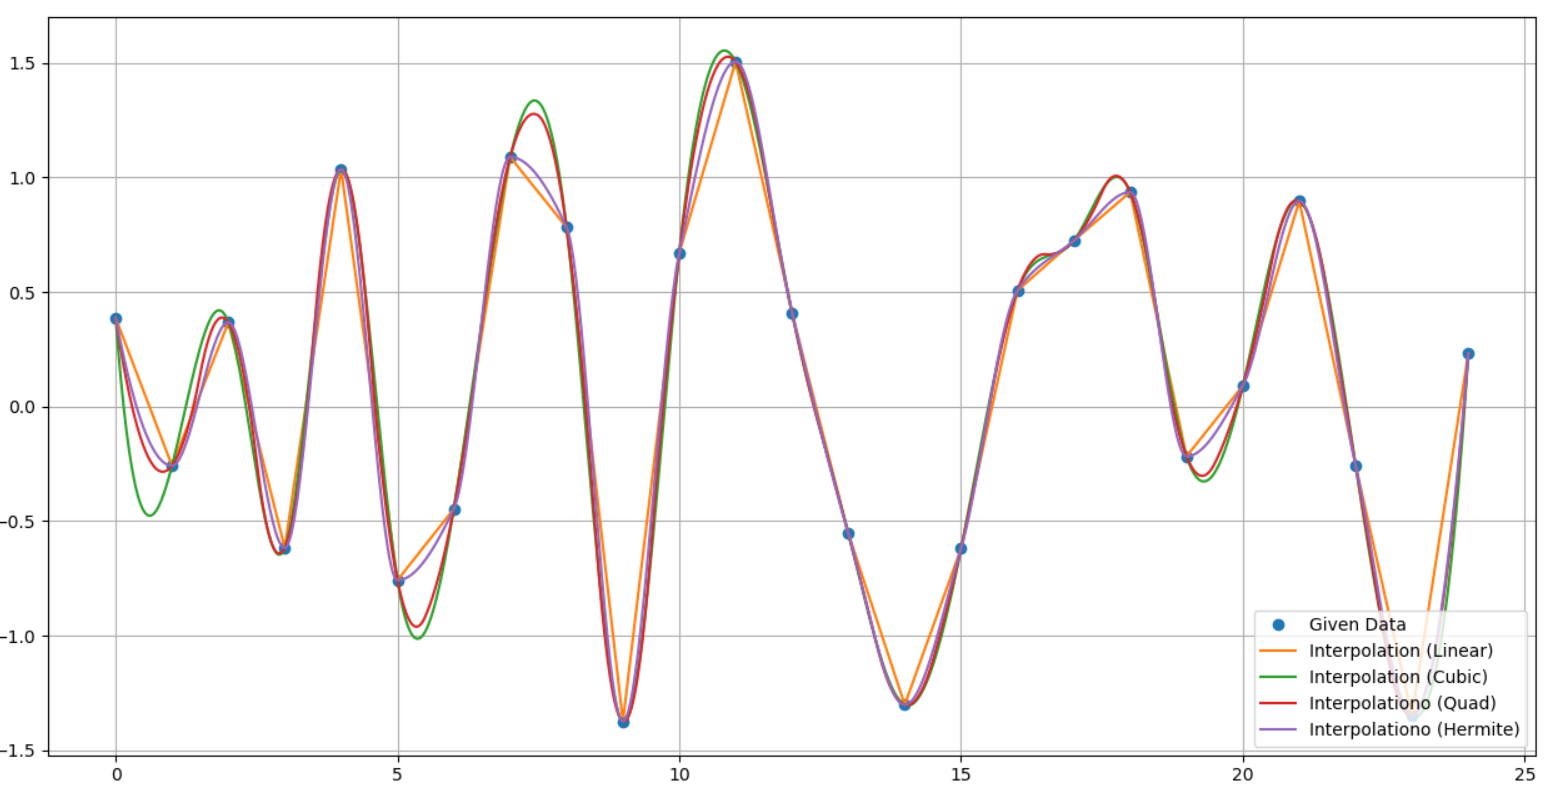
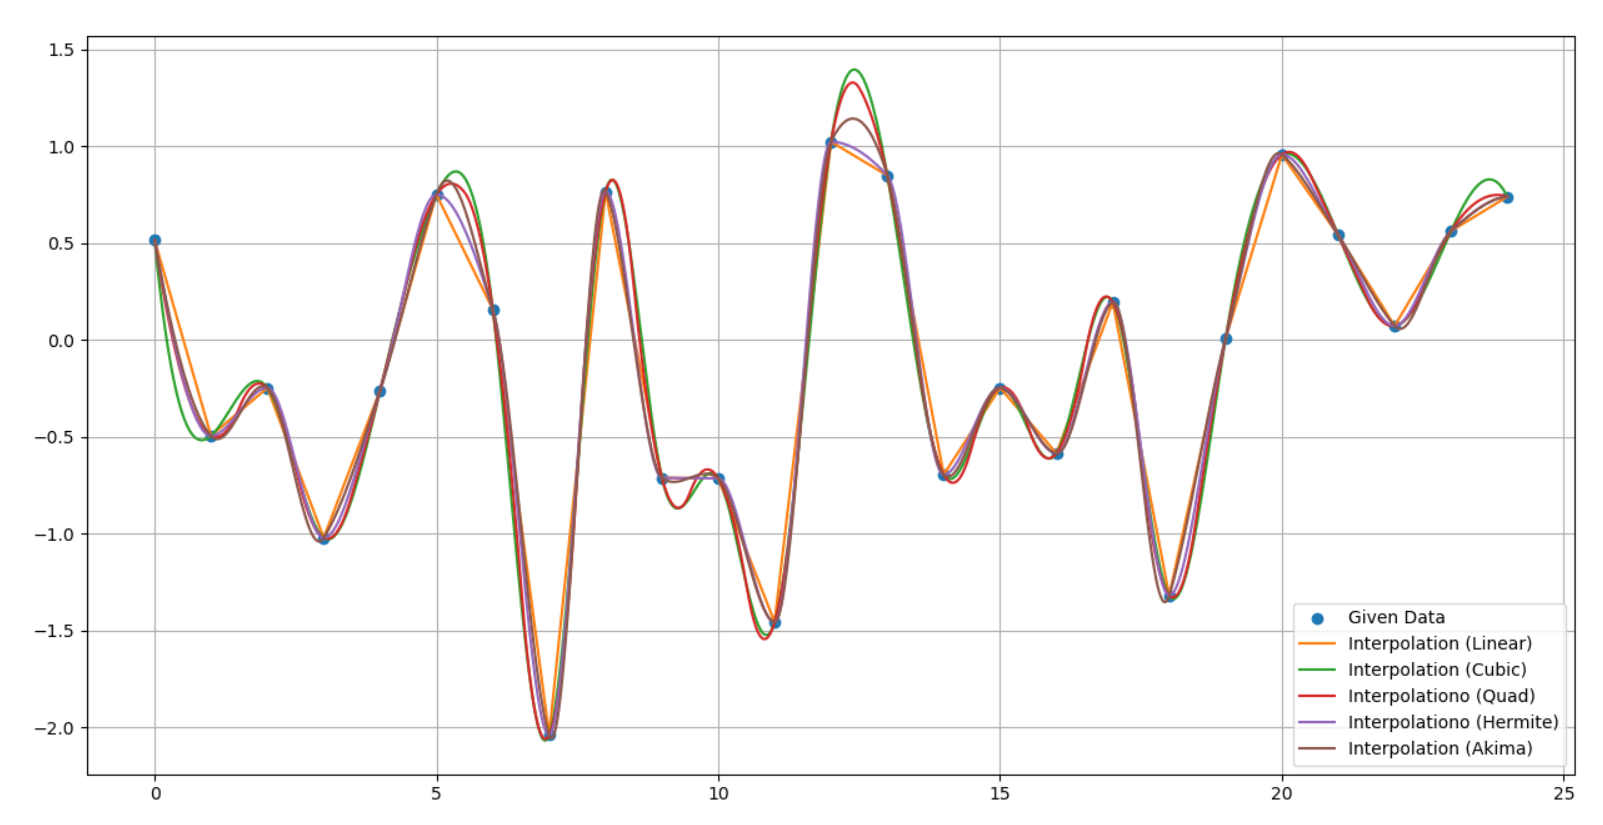
updates

diff --git a/sequntial_data_generation_sim.py b/sequntial_data_generation_sim.py
@@ -46,7 +46,7 @@ x = [i for i in range(samples.size)]
 fit_linear = interp1d(x, samples, kind="linear")
 fit_cubic = interp1d(x, samples, kind='cubic')
 fit_quad = interp1d(x, samples, kind='quadratic')
-fit_lagrange = interpolate.lagrange(x, samples)
+fit_akima = interpolate.Akima1DInterpolator(x, samples)
 
 x_test = np.linspace(0,samples.size-1,1000)
 
@@ -58,8 +58,9 @@ plt.plot(x_test, fit_linear(x_test))
 plt.plot(x_test, fit_cubic(x_test))
 plt.plot(x_test, fit_quad(x_test))
 plt.plot(x_test, y_test)
+plt.plot(x_test, fit_akima(x_test))
 plt.legend(["Given Data", "Interpolation (Linear)", "Interpolation (Cubic) ",
-            "Interpolationo (Quad)", 'Interpolationo (Hermite)'], loc ="lower right")
+            "Interpolationo (Quad)", 'Interpolationo (Hermite)', 'Interpolation (Akima)'], loc ="lower right")
 plt.grid()
 plt.show()
 
